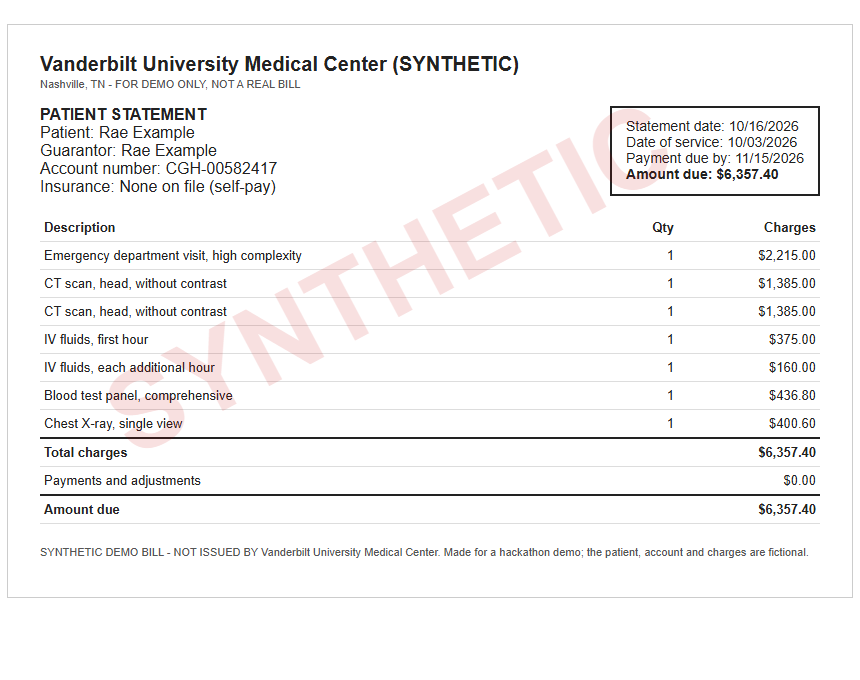
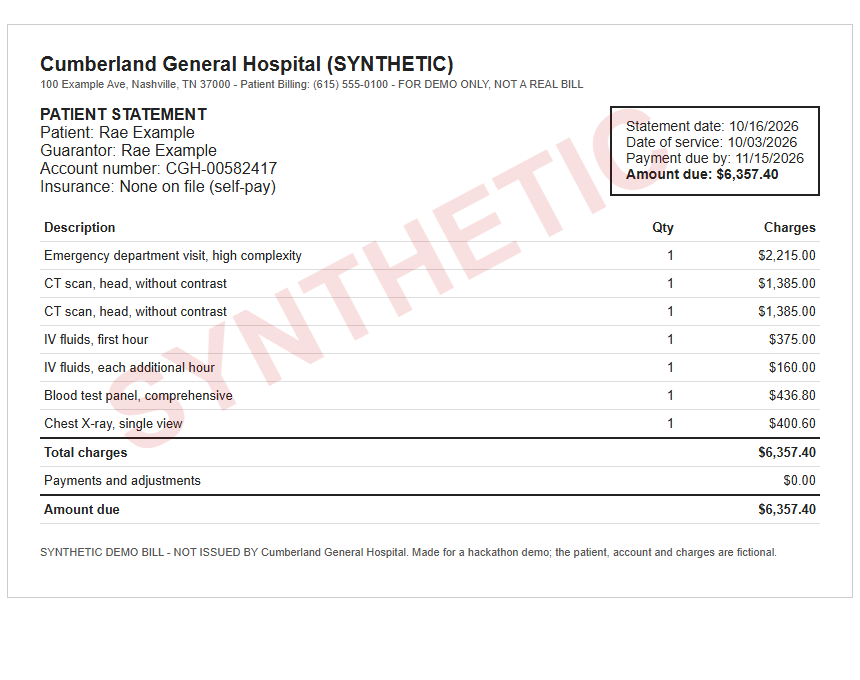
S1 redo (plan A2): bills 11-14 under the fictional Cumberland General Hospital (SYNTHETIC), never a real hospital's name on a planted error; bill-14 answer key insurance_status medicaid

Changed region(s): [[0.0302, 0.0618, 0.6651, 0.1544], [0.3023, 0.8029, 0.9372, 0.8338]]

diff --git a/spikes/synthetic-bill/bill-11.html b/spikes/synthetic-bill/bill-11.html
@@ -20,8 +20,8 @@
 <body>
 <div class="page">
   <div class="wm">SYNTHETIC</div>
-  <h1>Vanderbilt University Medical Center (SYNTHETIC)</h1>
-  <div class="small">Nashville, TN - FOR DEMO ONLY, NOT A REAL BILL</div>
+  <h1>Cumberland General Hospital (SYNTHETIC)</h1>
+  <div class="small">100 Example Ave, Nashville, TN 37000 - Patient Billing: (615) 555-0100 - FOR DEMO ONLY, NOT A REAL BILL</div>
 
   <div class="row">
     <div>
@@ -53,7 +53,7 @@
     <tr class="total"><td>Amount due</td><td></td><td class="n">$6,357.40</td></tr>
   </table>
 
-  <p class="small" style="margin-top:22px">SYNTHETIC DEMO BILL - NOT ISSUED BY Vanderbilt University Medical Center. Made for a hackathon demo; the patient, account and charges are fictional.</p>
+  <p class="small" style="margin-top:22px">SYNTHETIC DEMO BILL - NOT ISSUED BY Cumberland General Hospital. Made for a hackathon demo; the patient, account and charges are fictional.</p>
 </div>
 <script>
   var m = /blur=([0-9.]+)/.exec(location.hash);

diff --git a/spikes/synthetic-bill/bill-13.html b/spikes/synthetic-bill/bill-13.html
@@ -20,8 +20,8 @@
 <body>
 <div class="page">
   <div class="wm">SYNTHETIC</div>
-  <h1>Vanderbilt University Medical Center (SYNTHETIC)</h1>
-  <div class="small">Nashville, TN - FOR DEMO ONLY, NOT A REAL BILL</div>
+  <h1>Cumberland General Hospital (SYNTHETIC)</h1>
+  <div class="small">100 Example Ave, Nashville, TN 37000 - Patient Billing: (615) 555-0100 - FOR DEMO ONLY, NOT A REAL BILL</div>
 
   <div class="row">
     <div>
@@ -50,7 +50,7 @@
     <tr class="total"><td>Amount due</td><td></td><td class="n">$2,206.00</td></tr>
   </table>
 
-  <p class="small" style="margin-top:22px">SYNTHETIC DEMO BILL - NOT ISSUED BY Vanderbilt University Medical Center. Made for a hackathon demo; the patient, account and charges are fictional.</p>
+  <p class="small" style="margin-top:22px">SYNTHETIC DEMO BILL - NOT ISSUED BY Cumberland General Hospital. Made for a hackathon demo; the patient, account and charges are fictional.</p>
 </div>
 <script>
   var m = /blur=([0-9.]+)/.exec(location.hash);

diff --git a/spikes/synthetic-bill/bill-14.html b/spikes/synthetic-bill/bill-14.html
@@ -20,8 +20,8 @@
 <body>
 <div class="page">
   <div class="wm">SYNTHETIC</div>
-  <h1>Vanderbilt University Medical Center (SYNTHETIC)</h1>
-  <div class="small">Nashville, TN - FOR DEMO ONLY, NOT A REAL BILL</div>
+  <h1>Cumberland General Hospital (SYNTHETIC)</h1>
+  <div class="small">100 Example Ave, Nashville, TN 37000 - Patient Billing: (615) 555-0100 - FOR DEMO ONLY, NOT A REAL BILL</div>
 
   <div class="row">
     <div>
@@ -49,7 +49,7 @@
     <tr class="total"><td>Amount due</td><td></td><td class="n">$310.00</td></tr>
   </table>
 
-  <p class="small" style="margin-top:22px">SYNTHETIC DEMO BILL - NOT ISSUED BY Vanderbilt University Medical Center. Made for a hackathon demo; the patient, account and charges are fictional.</p>
+  <p class="small" style="margin-top:22px">SYNTHETIC DEMO BILL - NOT ISSUED BY Cumberland General Hospital. Made for a hackathon demo; the patient, account and charges are fictional.</p>
 </div>
 <script>
   var m = /blur=([0-9.]+)/.exec(location.hash);

diff --git a/spikes/synthetic-bill/bill-12.html b/spikes/synthetic-bill/bill-12.html
@@ -20,8 +20,8 @@
 <body>
 <div class="page">
   <div class="wm">SYNTHETIC</div>
-  <h1>Ascension Saint Thomas West (SYNTHETIC)</h1>
-  <div class="small">Nashville, TN - FOR DEMO ONLY, NOT A REAL BILL</div>
+  <h1>Cumberland General Hospital (SYNTHETIC)</h1>
+  <div class="small">100 Example Ave, Nashville, TN 37000 - Patient Billing: (615) 555-0100 - FOR DEMO ONLY, NOT A REAL BILL</div>
 
   <div class="row">
     <div>
@@ -50,7 +50,7 @@
     <tr class="total"><td>Amount due</td><td></td><td class="n">$1,858.50</td></tr>
   </table>
 
-  <p class="small" style="margin-top:22px">SYNTHETIC DEMO BILL - NOT ISSUED BY Vanderbilt University Medical Center. Made for a hackathon demo; the patient, account and charges are fictional.</p>
+  <p class="small" style="margin-top:22px">SYNTHETIC DEMO BILL - NOT ISSUED BY Cumberland General Hospital. Made for a hackathon demo; the patient, account and charges are fictional.</p>
 </div>
 <script>
   var m = /blur=([0-9.]+)/.exec(location.hash);
